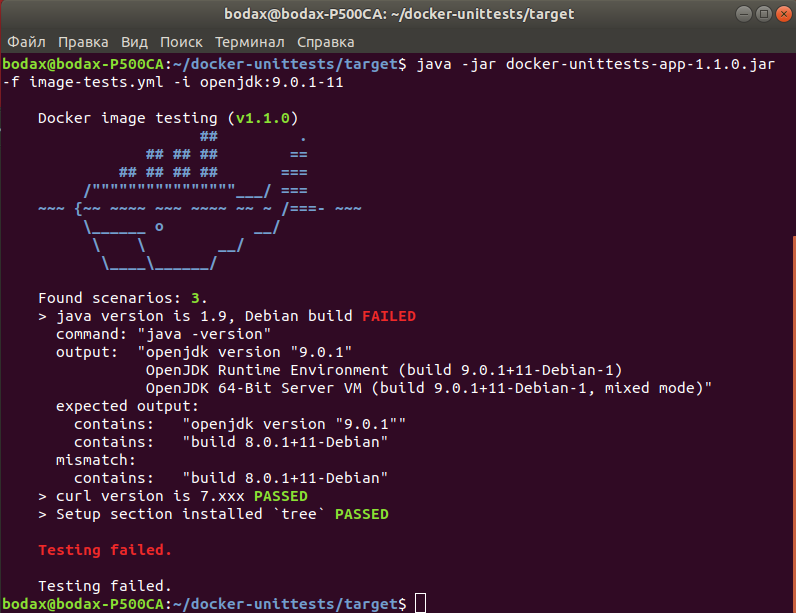
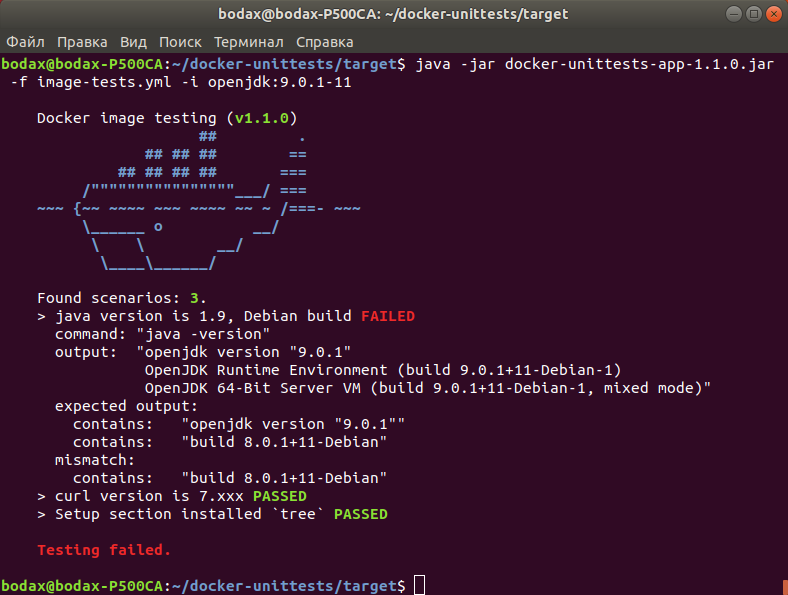
#217 "Testing failed" was printed twice to the STDOUT in case if testing failed

diff --git a/src/main/java/com/github/dgroup/dockertest/App.java b/src/main/java/com/github/dgroup/dockertest/App.java
@@ -61,7 +61,6 @@ import org.cactoos.list.ListOf;
  * @checkstyle ClassDataAbstractionCouplingCheck (200 lines)
  */
 public final class App {
-
     /**
      * Command-line arguments specified by the user from the shell.
      */
@@ -73,6 +72,7 @@ public final class App {
 
     /**
      * Ctor.
+     *
      * @param args Command-line arguments specified by the user from the shell.
      * @param std Standard application output.
      */
@@ -83,6 +83,7 @@ public final class App {
 
     /**
      * Start point.
+     *
      * @param cargs The cmd arguments specified by the user from the shell.
      * @see YmlFileOf
      * @see ImageOf
@@ -103,6 +104,8 @@ public final class App {
             new RuntimeOf().shutdownWith(
                 cause.exitCode()
             );
+        } catch (final TestingFailedException ex) {
+            new AppException(-1, ex);
         }
     }
 
@@ -113,15 +116,17 @@ public final class App {
      * 3. Detect the expected output formats like std, xml or html;
      * 4. Execute tests concurrently;
      * 5. Report the results.
-     * @throws AppException in case of testing or other errors.
+     *
+     * @throws AppException           in case of testing or other errors.
+     * @throws TestingFailedException show fail testing results to std.
      * @checkstyle MagicNumberCheck (100 lines)
      * @checkstyle IllegalCatchCheck (100 lines)
      * @checkstyle ExecutableStatementCountCheck (100 lines)
      */
     @SuppressWarnings({
         "PMD.PreserveStackTrace",
-        "PMD.AvoidCatchingGenericException"})
-    public void start() throws AppException {
+        "PMD.AvoidCatchingGenericException" })
+    public void start() throws AppException, TestingFailedException {
         final Arg<File> file = new YmlFileOf(this.args);
         final Arg<String> image = new ImageOf(this.args);
         final Arg<Timeout> ttrd = new TimeoutPerThread(this.args);
@@ -150,8 +155,6 @@ public final class App {
             ctly.execute(
                 image.value(), container.value(), tags.value()
             ).report(out);
-        } catch (final TestingFailedException ex) {
-            throw new AppException(-1, ex);
         } catch (final YmlFormatException ex) {
             throw new AppException(-2, ex);
         } catch (final CmdArgNotFoundException exp) {

diff --git a/src/test/java/com/github/dgroup/dockertest/AppTest.java b/src/test/java/com/github/dgroup/dockertest/AppTest.java
@@ -24,6 +24,7 @@
 package com.github.dgroup.dockertest;
 
 import com.github.dgroup.dockertest.hamcrest.HasItems;
+import com.github.dgroup.dockertest.test.TestingFailedException;
 import com.github.dgroup.dockertest.test.output.std.Std;
 import com.github.dgroup.dockertest.test.output.std.StdOutput;
 import com.github.dgroup.dockertest.text.TextOf;
@@ -48,7 +49,7 @@ import org.junit.Test;
 public final class AppTest {
 
     @Test
-    public void run() throws AppException {
+    public void run() throws AppException, TestingFailedException {
         new Assume().that(new DockerWasInstalled());
         final File src = Paths.get("docs", "image-tests.yml").toFile();
         final Std.Fake std = new Std.Fake(new ArrayList<>(10));
